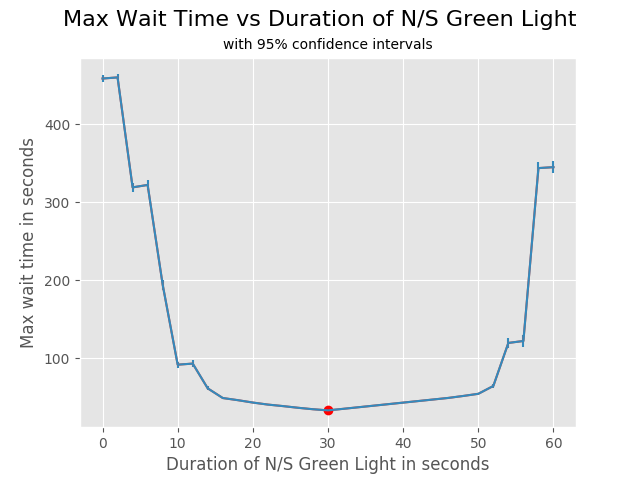
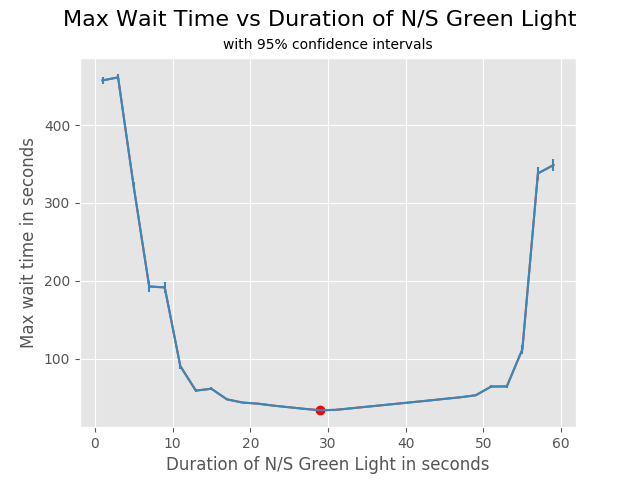
added notes about left turn rules

diff --git a/stoplight.py b/stoplight.py
@@ -6,7 +6,7 @@ import numpy as np
 import matplotlib.pyplot as plt
 
 
-def arrive(queue, direction):
+def arrive(queue: Queue, direction: str):
     """
     A function to randomly generate when cars arrive from a uniform distribution, and
     update the queue when a car arrives and joins a queue in the particular direction.
@@ -33,6 +33,7 @@ def arrive(queue, direction):
         # if the light is red, or there are cars ahead of this one in the queue, add this car's position
         # and arrival time to the end of the queue
         if light == 'red' or queue.qsize() > 0:
+            # *** need to add the randomly generated turn direction as a third value in this car object tuple
             queue.put((arrive_count, env.now))
             # print statement to show the status of the car joining the queue
             if print_sim: print("Car #{arrive_count} arrived and joined the {direction} queue at position {length} " 
@@ -56,7 +57,7 @@ def arrive(queue, direction):
         yield env.timeout(next_arrival)
 
 
-def depart(queue, direction):
+def depart(queue: Queue, direction: str):
     """
     A function to keep track of the cars which depart from a particular queue.  It calculates how long
     each car took to get through the intersection, and updates the total and max wait times for the simulation.
@@ -82,6 +83,19 @@ def depart(queue, direction):
         else:
             # each departing car takes a constant value of 3 seconds to clear the intersection
             yield env.timeout(clear_delay)
+
+            # *** Add left on green rules here:
+            # get the turn direction from the car tuple object
+            # you can access the first object without removing it like `N_queue.queue[0]`
+
+            # if the car wants to turn right or go straight, pass
+            # else if the car wants to turn left, check if there are cars in queue from the opposite direction
+            # if the opposite queue is empty, pass
+            # else if the opposite queue size > 0, check if the first car is turning left
+            # if opposite car is turning left, pass
+            # else, return. This car needs to wait until the opposite queue clears
+
+            # a car departs:
             # remove the first car from the queue, and store its position and arrival time
             car_position, time_arrived = queue.get()
             # calculate the time the car took to get through the intersection after arrival
@@ -101,19 +115,16 @@ def depart(queue, direction):
             Stats['cars_waiting'] += 1
             Stats['waiting_time'] += time_waiting
 
-            # add left on green rules here
-            # pass turn direction as parameter
 
 
 
-
-def light_status(direction, queue, red_time, green_time):
+def light_status(direction: str, queue: Queue, red_time: int, green_time: int):
     """
     A function to handle the change in light status from green to red or vice versa. It also
     keeps track of the red light duration and green light duration.
     :param direction:N/S/E/W
     :param queue:N_Queue, S_Queue, E_Queue, W_Queue
-    :param red_time: duration of the red light for the NS queues
+    :param red_time: duration of the red light for the NS queues (60 seconds - green_time)
     :param green_time: duration of the green light for the NS queues
     :return:
     """
@@ -160,7 +171,7 @@ def light_status(direction, queue, red_time, green_time):
         Stats['red_time'] += red_time
 
 
-def run_sim(NS_green_time, total_time):
+def run_sim(NS_green_time: int, total_time: int):
     """
     A function which instantiates the process and it runs till the total_time. The simulation always starts
     with a green NS light and red EW light. The red light time is always one minute minus the green light time.
@@ -168,25 +179,32 @@ def run_sim(NS_green_time, total_time):
     :param total_time: A predefined duration in seconds. 600 seconds
     :return:
     """
+    # red light time is always 60 seconds - green light time
     NS_red_time = 60 - NS_green_time
 
+    # start the N and S stop lights
     env.process(light_status(direction='N', queue=N_queue, green_time=NS_green_time, red_time=NS_red_time))
     env.process(light_status(direction='S', queue=S_queue, green_time=NS_green_time, red_time=NS_red_time))
+    # start the N and S arrival process
     env.process(arrive(queue=N_queue, direction='N'))
     env.process(arrive(queue=S_queue, direction='S'))
 
+    # start the E and W stop lights
     env.process(light_status(direction='E', queue=E_queue, green_time=NS_green_time, red_time=NS_red_time))
     env.process(light_status(direction='W', queue=W_queue, green_time=NS_green_time, red_time=NS_red_time))
+    # start the E and W arrival process
     env.process(arrive(queue=E_queue, direction='E'))
     env.process(arrive(queue=W_queue, direction='W'))
 
+    # run until the total simulation time given
     env.run(until=total_time)
 
 
-def calculate_ci(sample_vals):
+def calculate_ci(sample_vals: list) -> tuple:
     """
     :param sample_vals: a list of sample statistics values (means or maxs)
-    :return: a list of 95% confidence intervals
+    :return: a tuple of the upper and lower bounds for a 95% confidence interval
+    calculated using equation: point estimate +/- 1.96 * (sample standard deviation / sqrt(sample size N))
     """
     n = len(sample_vals)
     # compute the average of all the means for this green time parameter
@@ -198,32 +216,31 @@ def calculate_ci(sample_vals):
                  sample_mean + margin_of_error)
     return intervals
 
-def visualize_data(x, y, conf_intervals, metric):
+
+def visualize_data(x: list, y: list, conf_intervals: list, metric: str):
     """
-    A function for visualizating the plot
-    :param x: An array plotted on the y-axis which contains all the green times during the entire duration of the simulation
-    :param y: An array plotted on the x-axis which contains an average of the max or mean times in seconds that it takes
+    A function for creating and saving the plot of mean or max values vs green light duration
+    :param x: A list to be plotted on the y-axis which contains all the green time parameters during the entire duration of the simulation
+    :param y: A list to be plotted on the x-axis which contains all the sample max or mean times in seconds that it took
     for a car to get through the intersection for the entire duration of the simulation
-    :param yerr: The standard error around the sample mean or max (sample standard deviation / sqrt(sample size n))
+    :param conf_intervals: A list of tuples with 95% confidence intervals around the sample statistic
     :param metric: The metric to be plotted and labeled (max or mean)
     :return:
     """
     plt.style.use('ggplot')
     plt.plot(x, y)
-    plt.errorbar(x, y, yerr=[(top-bot)/2 for top,bot in conf_intervals])
+    # plot the confidence intervals
+    plt.errorbar(x, y, yerr=[(top-bot)/2 for top, bot in conf_intervals])
+    # find and plot a red dot at the minimum y value
     min_idx = y.index(min(y))
     plt.plot(x[min_idx], y[min_idx], 'ro')
     plt.suptitle("{} Wait Time vs Duration of N/S Green Light".format(metric), fontsize=16)
     plt.title("with 95% confidence intervals", fontsize=10)
     plt.xlabel("Duration of N/S Green Light in seconds")
     plt.ylabel("{} wait time in seconds".format(metric))
-
-
     plt.interactive(False)
     plt.savefig('./{}_plot.png'.format(metric))
     plt.show()
-
-
 
 
 if __name__ == '__main__':
@@ -242,7 +259,7 @@ if __name__ == '__main__':
     print('N =', N)
     # iterate over increasing green_time parameter values between 1 and 59 seconds
     # (red light time values are always 60 seconds - green_time value)
-    for green_time in range(0, 61, 2):
+    for green_time in range(1, 60, 2):
         # instantiate mean and max collectors for each parameter value
         means = []
         maxs = []
@@ -308,7 +325,6 @@ if __name__ == '__main__':
                 print('\n')
                 for k, v in Stats.items():
                     print(k, ':', v)
-
 
             # compute and store the average time to clear the intersection for this simulation
             means.append(Stats['waiting_time'] / float(Stats['car_count']))
